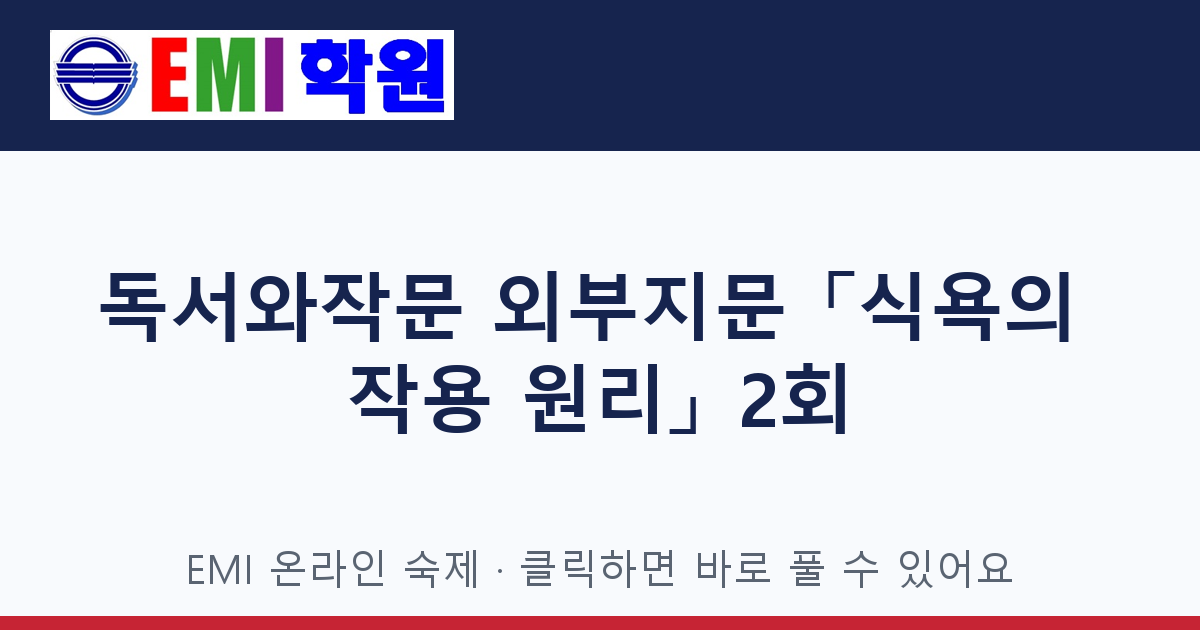
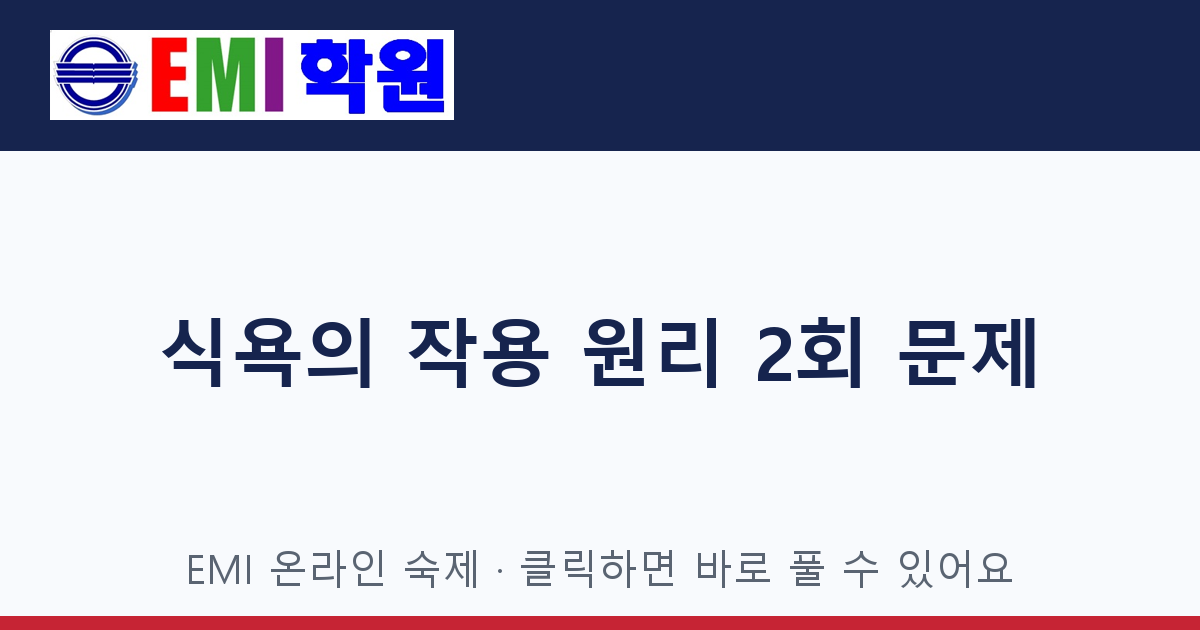
cards: sik1,sik2,sik3

Changed region(s): [[0.0617, 0.4222, 0.8942, 0.6937]]

diff --git a/sik1.html b/sik1.html
@@ -1,20 +1,20 @@
 <!doctype html><html lang="ko"><head><meta charset="utf-8">
 <meta name="viewport" content="width=device-width, initial-scale=1">
-<title>독서와작문 외부지문 「식욕의 작용 원리」 1회</title>
+<title>식욕의 작용 원리 1회 숙제</title>
 <meta name="description" content="EMI 온라인 숙제 · 클릭하면 바로 풀 수 있어요 (제출 결과는 선생님에게 전송됩니다)">
 <meta property="og:type" content="website">
-<meta property="og:title" content="독서와작문 외부지문 「식욕의 작용 원리」 1회">
+<meta property="og:title" content="식욕의 작용 원리 1회 숙제">
 <meta property="og:description" content="EMI 온라인 숙제 · 클릭하면 바로 풀 수 있어요 (제출 결과는 선생님에게 전송됩니다)">
 <meta property="og:image" content="https://yanga1052-del.github.io/emi-hw-preview/img/sik1.png">
 <meta property="og:url" content="https://yanga1052-del.github.io/emi-hw-preview/sik1.html">
 <meta name="twitter:card" content="summary_large_image">
-<meta name="twitter:title" content="독서와작문 외부지문 「식욕의 작용 원리」 1회">
+<meta name="twitter:title" content="식욕의 작용 원리 1회 숙제">
 <meta name="twitter:description" content="EMI 온라인 숙제 · 클릭하면 바로 풀 수 있어요 (제출 결과는 선생님에게 전송됩니다)">
 <meta name="twitter:image" content="https://yanga1052-del.github.io/emi-hw-preview/img/sik1.png">
 <meta http-equiv="refresh" content="0; url=https://script.google.com/macros/s/AKfycbyF3ateTjzvvQgbUPQ1zHatpe2qTKi0NUpeD05WZu_OVzvtxLwxgMTxlddT3Mv3tvPU/exec?hw=sik1">
 <style>body{font-family:'Malgun Gothic',sans-serif;background:#f6f8fb;color:#1a2432;display:flex;min-height:100vh;align-items:center;justify-content:center;margin:0}
 .card{background:#fff;border-radius:16px;box-shadow:0 8px 30px rgba(20,30,70,.12);padding:40px 44px;text-align:center;max-width:460px}
 h1{color:#16244e;font-size:22px;margin:.2em 0 .6em} p{color:#5a6472} a{display:inline-block;margin-top:18px;background:#16244e;color:#fff;text-decoration:none;padding:13px 26px;border-radius:10px;font-weight:bold}</style>
-</head><body><div class="card"><h1>독서와작문 외부지문 「식욕의 작용 원리」 1회</h1><p>잠시 후 숙제 페이지로 이동합니다.<br>이동하지 않으면 아래 버튼을 눌러 주세요.</p>
+</head><body><div class="card"><h1>식욕의 작용 원리 1회 숙제</h1><p>잠시 후 숙제 페이지로 이동합니다.<br>이동하지 않으면 아래 버튼을 눌러 주세요.</p>
 <a href="https://script.google.com/macros/s/AKfycbyF3ateTjzvvQgbUPQ1zHatpe2qTKi0NUpeD05WZu_OVzvtxLwxgMTxlddT3Mv3tvPU/exec?hw=sik1">숙제 풀러 가기 →</a></div>
 <script>location.replace("https://script.google.com/macros/s/AKfycbyF3ateTjzvvQgbUPQ1zHatpe2qTKi0NUpeD05WZu_OVzvtxLwxgMTxlddT3Mv3tvPU/exec?hw=sik1");</script></body></html>

diff --git a/sik2.html b/sik2.html
@@ -1,20 +1,20 @@
 <!doctype html><html lang="ko"><head><meta charset="utf-8">
 <meta name="viewport" content="width=device-width, initial-scale=1">
-<title>독서와작문 외부지문 「식욕의 작용 원리」 2회</title>
+<title>식욕의 작용 원리 2회 숙제</title>
 <meta name="description" content="EMI 온라인 숙제 · 클릭하면 바로 풀 수 있어요 (제출 결과는 선생님에게 전송됩니다)">
 <meta property="og:type" content="website">
-<meta property="og:title" content="독서와작문 외부지문 「식욕의 작용 원리」 2회">
+<meta property="og:title" content="식욕의 작용 원리 2회 숙제">
 <meta property="og:description" content="EMI 온라인 숙제 · 클릭하면 바로 풀 수 있어요 (제출 결과는 선생님에게 전송됩니다)">
 <meta property="og:image" content="https://yanga1052-del.github.io/emi-hw-preview/img/sik2.png">
 <meta property="og:url" content="https://yanga1052-del.github.io/emi-hw-preview/sik2.html">
 <meta name="twitter:card" content="summary_large_image">
-<meta name="twitter:title" content="독서와작문 외부지문 「식욕의 작용 원리」 2회">
+<meta name="twitter:title" content="식욕의 작용 원리 2회 숙제">
 <meta name="twitter:description" content="EMI 온라인 숙제 · 클릭하면 바로 풀 수 있어요 (제출 결과는 선생님에게 전송됩니다)">
 <meta name="twitter:image" content="https://yanga1052-del.github.io/emi-hw-preview/img/sik2.png">
 <meta http-equiv="refresh" content="0; url=https://script.google.com/macros/s/AKfycbyF3ateTjzvvQgbUPQ1zHatpe2qTKi0NUpeD05WZu_OVzvtxLwxgMTxlddT3Mv3tvPU/exec?hw=sik2">
 <style>body{font-family:'Malgun Gothic',sans-serif;background:#f6f8fb;color:#1a2432;display:flex;min-height:100vh;align-items:center;justify-content:center;margin:0}
 .card{background:#fff;border-radius:16px;box-shadow:0 8px 30px rgba(20,30,70,.12);padding:40px 44px;text-align:center;max-width:460px}
 h1{color:#16244e;font-size:22px;margin:.2em 0 .6em} p{color:#5a6472} a{display:inline-block;margin-top:18px;background:#16244e;color:#fff;text-decoration:none;padding:13px 26px;border-radius:10px;font-weight:bold}</style>
-</head><body><div class="card"><h1>독서와작문 외부지문 「식욕의 작용 원리」 2회</h1><p>잠시 후 숙제 페이지로 이동합니다.<br>이동하지 않으면 아래 버튼을 눌러 주세요.</p>
+</head><body><div class="card"><h1>식욕의 작용 원리 2회 숙제</h1><p>잠시 후 숙제 페이지로 이동합니다.<br>이동하지 않으면 아래 버튼을 눌러 주세요.</p>
 <a href="https://script.google.com/macros/s/AKfycbyF3ateTjzvvQgbUPQ1zHatpe2qTKi0NUpeD05WZu_OVzvtxLwxgMTxlddT3Mv3tvPU/exec?hw=sik2">숙제 풀러 가기 →</a></div>
 <script>location.replace("https://script.google.com/macros/s/AKfycbyF3ateTjzvvQgbUPQ1zHatpe2qTKi0NUpeD05WZu_OVzvtxLwxgMTxlddT3Mv3tvPU/exec?hw=sik2");</script></body></html>

diff --git a/sik3.html b/sik3.html
@@ -1,20 +1,20 @@
 <!doctype html><html lang="ko"><head><meta charset="utf-8">
 <meta name="viewport" content="width=device-width, initial-scale=1">
-<title>독서와작문 외부지문 「식욕의 작용 원리」 3회</title>
+<title>식욕의 작용 원리 3회 숙제</title>
 <meta name="description" content="EMI 온라인 숙제 · 클릭하면 바로 풀 수 있어요 (제출 결과는 선생님에게 전송됩니다)">
 <meta property="og:type" content="website">
-<meta property="og:title" content="독서와작문 외부지문 「식욕의 작용 원리」 3회">
+<meta property="og:title" content="식욕의 작용 원리 3회 숙제">
 <meta property="og:description" content="EMI 온라인 숙제 · 클릭하면 바로 풀 수 있어요 (제출 결과는 선생님에게 전송됩니다)">
 <meta property="og:image" content="https://yanga1052-del.github.io/emi-hw-preview/img/sik3.png">
 <meta property="og:url" content="https://yanga1052-del.github.io/emi-hw-preview/sik3.html">
 <meta name="twitter:card" content="summary_large_image">
-<meta name="twitter:title" content="독서와작문 외부지문 「식욕의 작용 원리」 3회">
+<meta name="twitter:title" content="식욕의 작용 원리 3회 숙제">
 <meta name="twitter:description" content="EMI 온라인 숙제 · 클릭하면 바로 풀 수 있어요 (제출 결과는 선생님에게 전송됩니다)">
 <meta name="twitter:image" content="https://yanga1052-del.github.io/emi-hw-preview/img/sik3.png">
 <meta http-equiv="refresh" content="0; url=https://script.google.com/macros/s/AKfycbyF3ateTjzvvQgbUPQ1zHatpe2qTKi0NUpeD05WZu_OVzvtxLwxgMTxlddT3Mv3tvPU/exec?hw=sik3">
 <style>body{font-family:'Malgun Gothic',sans-serif;background:#f6f8fb;color:#1a2432;display:flex;min-height:100vh;align-items:center;justify-content:center;margin:0}
 .card{background:#fff;border-radius:16px;box-shadow:0 8px 30px rgba(20,30,70,.12);padding:40px 44px;text-align:center;max-width:460px}
 h1{color:#16244e;font-size:22px;margin:.2em 0 .6em} p{color:#5a6472} a{display:inline-block;margin-top:18px;background:#16244e;color:#fff;text-decoration:none;padding:13px 26px;border-radius:10px;font-weight:bold}</style>
-</head><body><div class="card"><h1>독서와작문 외부지문 「식욕의 작용 원리」 3회</h1><p>잠시 후 숙제 페이지로 이동합니다.<br>이동하지 않으면 아래 버튼을 눌러 주세요.</p>
+</head><body><div class="card"><h1>식욕의 작용 원리 3회 숙제</h1><p>잠시 후 숙제 페이지로 이동합니다.<br>이동하지 않으면 아래 버튼을 눌러 주세요.</p>
 <a href="https://script.google.com/macros/s/AKfycbyF3ateTjzvvQgbUPQ1zHatpe2qTKi0NUpeD05WZu_OVzvtxLwxgMTxlddT3Mv3tvPU/exec?hw=sik3">숙제 풀러 가기 →</a></div>
 <script>location.replace("https://script.google.com/macros/s/AKfycbyF3ateTjzvvQgbUPQ1zHatpe2qTKi0NUpeD05WZu_OVzvtxLwxgMTxlddT3Mv3tvPU/exec?hw=sik3");</script></body></html>

diff --git a/index.html b/index.html
@@ -53,8 +53,8 @@
 <li><a href="airead1.html">올림포스 [읽기] 인공 지능을 바라보는 다양한 시선 변형문제 1차 1회 숙제</a></li>
 <li><a href="airead2.html">올림포스 [읽기] 인공 지능을 바라보는 다양한 시선 변형문제 2차 1회 숙제</a></li>
 <li><a href="airead3.html">올림포스 [읽기] 인공 지능을 바라보는 다양한 시선 변형문제 3차 1회 숙제</a></li>
-<li><a href="sik1.html">독서와작문 외부지문 「식욕의 작용 원리」 1회</a></li>
-<li><a href="sik2.html">독서와작문 외부지문 「식욕의 작용 원리」 2회</a></li>
-<li><a href="sik3.html">독서와작문 외부지문 「식욕의 작용 원리」 3회</a></li>
+<li><a href="sik1.html">식욕의 작용 원리 1회 숙제</a></li>
+<li><a href="sik2.html">식욕의 작용 원리 2회 숙제</a></li>
+<li><a href="sik3.html">식욕의 작용 원리 3회 숙제</a></li>
 <li><a href="sched-makeup.html">EMI 보충수업 가능 시간 조사</a></li>
 </ul>
